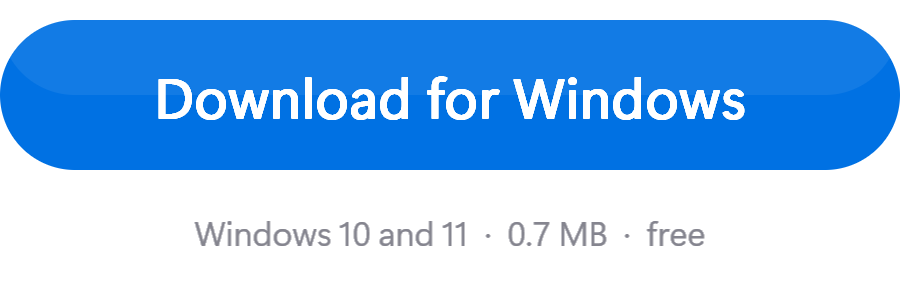
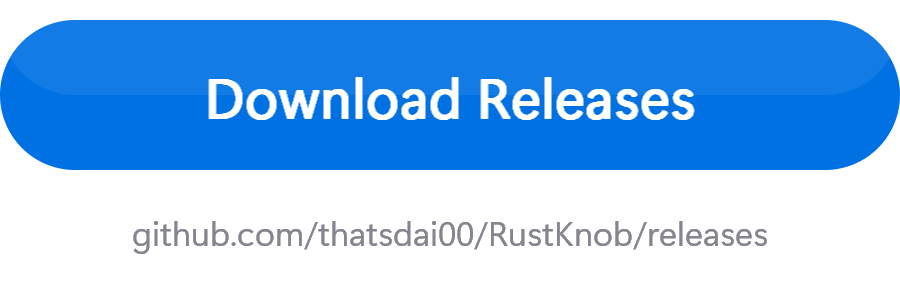
Add MIT license, rename download button to Download Releases

Changed region(s): [[0.1556, 0.24, 0.84, 0.42], [0.1244, 0.72, 0.8711, 0.84]]

diff --git a/src/demo.rs b/src/demo.rs
@@ -587,9 +587,9 @@ pub fn run(dir: &str) {
     let mut button = Canvas::new(900, 300);
     button.rrect(0.0, 20.0, 900.0, 150.0, 75.0, rgb(0, 113, 227), 1.0);
     button.rrect(0.0, 20.0, 900.0, 75.0, 75.0, WHITE, 0.07);
-    let label = type_bmp("Download for Windows", 56, 600);
+    let label = type_bmp("Download Releases", 56, 600);
     button.text_center(&label, 450.0, 96.0, WHITE, WHITE, 1.0);
-    let small = type_bmp("Windows 10 and 11  ·  0.7 MB  ·  free", 34, 400);
+    let small = type_bmp("github.com/thatsdai00/RustKnob/releases", 34, 400);
     button.text_center(&small, 450.0, 232.0, [0.52, 0.52, 0.56], [0.52, 0.52, 0.56], 1.0);
     save("download", &button);
 

diff --git a/README.md b/README.md
@@ -4,7 +4,7 @@
 
 <br>
 
-<a href="https://github.com/thatsdai00/RustKnob/releases/latest"><img src="docs/img/download.png" alt="Download RustKnob for Windows" width="380"></a>
+<a href="https://github.com/thatsdai00/RustKnob/releases/latest"><img src="docs/img/download.png" alt="Download Releases" width="380"></a>
 
 <sub>Windows 10 and 11 · one 0.7 MB file · no installer, no admin rights</sub>
 
@@ -104,6 +104,10 @@ cargo build --release
 ```
 
 Needs Rust and the Visual Studio C++ build tools. `package.ps1` writes `dist/RustKnob.exe` and a zip. The pictures above are drawn by the real renderer: `cargo run --release --features demo -- --demo docs/img`.
+
+## License
+
+[MIT](LICENSE).
 
 ## Uninstall
 
